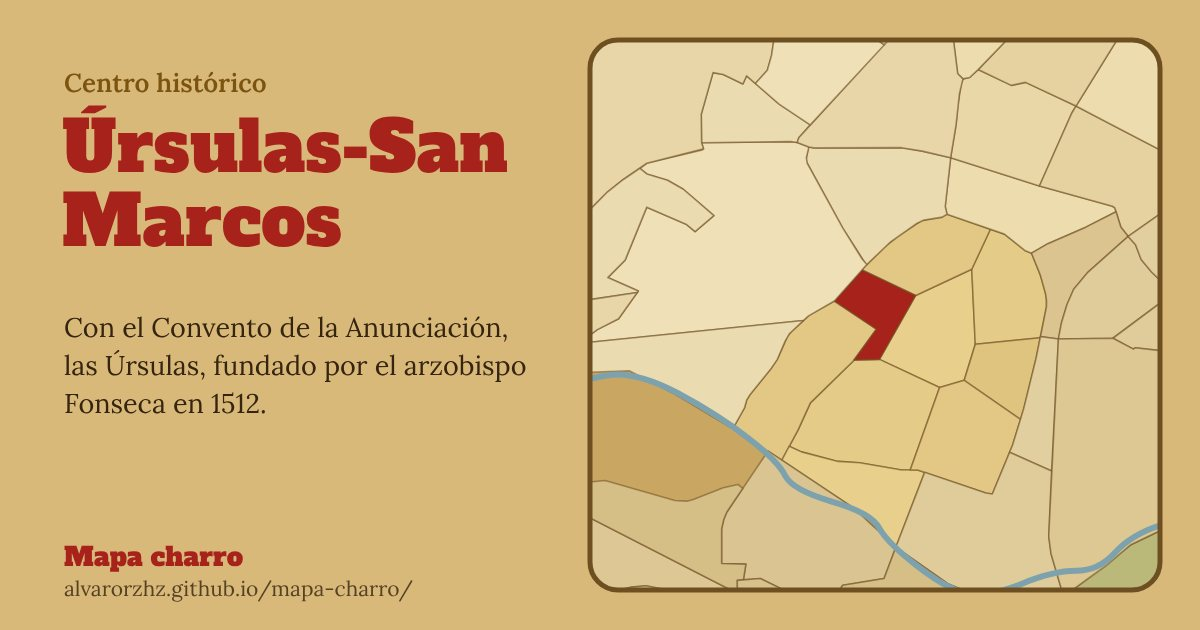
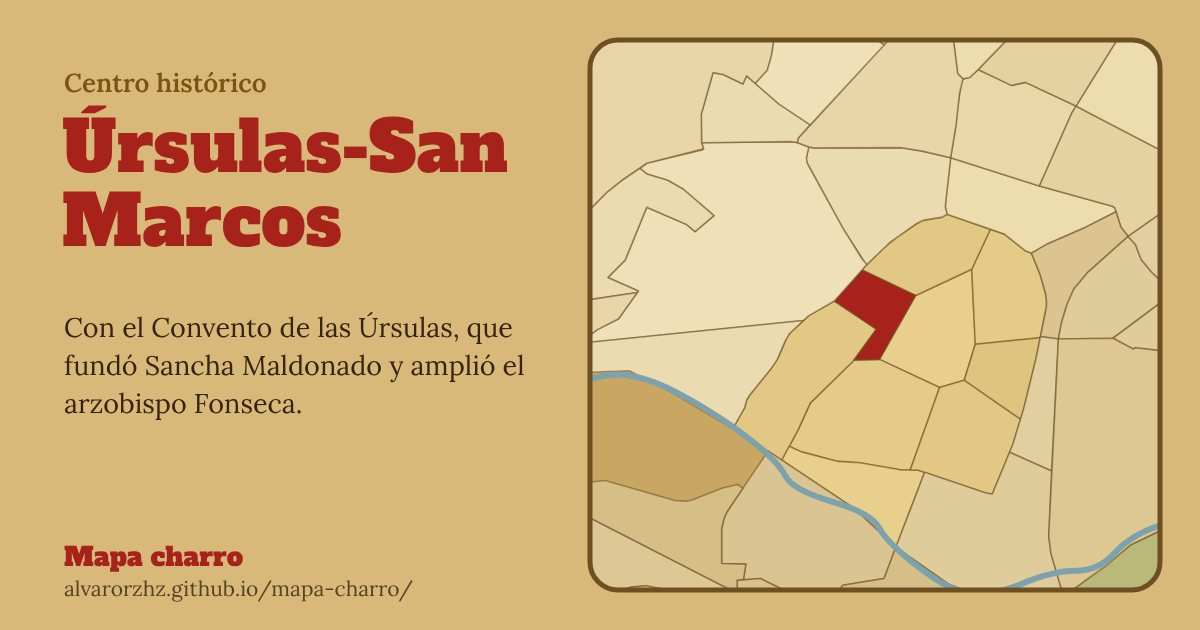
2.14.1: más curiosidades (#24)
* Más curiosidades en siete fichas y correcciones de Pelabravo y Úrsulas

Claude-Session: https://claude.ai/code/session_01GbeVkfSiqpqWJ3AUUrRvVU

* 2.14.1: más curiosidades

Claude-Session: https://claude.ai/code/session_01GbeVkfSiqpqWJ3AUUrRvVU

---------

Changed region(s): [[0.0308, 0.5127, 0.4625, 0.6635]]

diff --git a/index.html b/index.html
@@ -1,6 +1,6 @@
-<!DOCTYPE html><html lang="es"><head><meta charset="utf-8"><meta name="version" content="2.14.0"><meta name="viewport" content="width=device-width, initial-scale=1, viewport-fit=cover"><title>Mapa charro de Salamanca</title><meta name="description" content="Mapa interactivo de los barrios de Salamanca y su provincia: marca dónde has estado, descubre curiosidades, leyendas y dónde comer."><meta property="og:type" content="website"><meta property="og:site_name" content="Mapa charro"><meta property="og:locale" content="es_ES"><meta property="og:title" content="Mapa charro de Salamanca"><meta property="og:description" content="Los barrios de la capital y los pueblos de la provincia: marca dónde has estado, haz rutas y descubre curiosidades, leyendas y dónde comer."><meta property="og:url" content="https://alvarorzhz.github.io/mapa-charro/"><meta property="og:image" content="https://alvarorzhz.github.io/mapa-charro/og.png"><meta property="og:image:width" content="1200"><meta property="og:image:height" content="630"><meta property="og:image:alt" content="Mapa charro de Salamanca: la provincia con sus pueblos y, en un recuadro, el mapa de los barrios de la capital"><meta name="twitter:card" content="summary_large_image"><link rel="prefetch" href="novedades.json?v=204"><link rel="manifest" href="manifest.webmanifest"><link rel="apple-touch-icon" href="icons/icon-180.png"><link rel="icon" href="icons/icon-192.png"><meta name="theme-color" content="#a8221c"><script>try{var t=localStorage.getItem("charro-tema");if(t=="light"||t=="dark")document.documentElement.dataset.theme=t}catch(e){}</script><meta name="apple-mobile-web-app-capable" content="yes"><meta name="mobile-web-app-capable" content="yes"><meta name="apple-mobile-web-app-title" content="Mapa charro">
+<!DOCTYPE html><html lang="es"><head><meta charset="utf-8"><meta name="version" content="2.14.1"><meta name="viewport" content="width=device-width, initial-scale=1, viewport-fit=cover"><title>Mapa charro de Salamanca</title><meta name="description" content="Mapa interactivo de los barrios de Salamanca y su provincia: marca dónde has estado, descubre curiosidades, leyendas y dónde comer."><meta property="og:type" content="website"><meta property="og:site_name" content="Mapa charro"><meta property="og:locale" content="es_ES"><meta property="og:title" content="Mapa charro de Salamanca"><meta property="og:description" content="Los barrios de la capital y los pueblos de la provincia: marca dónde has estado, haz rutas y descubre curiosidades, leyendas y dónde comer."><meta property="og:url" content="https://alvarorzhz.github.io/mapa-charro/"><meta property="og:image" content="https://alvarorzhz.github.io/mapa-charro/og.png"><meta property="og:image:width" content="1200"><meta property="og:image:height" content="630"><meta property="og:image:alt" content="Mapa charro de Salamanca: la provincia con sus pueblos y, en un recuadro, el mapa de los barrios de la capital"><meta name="twitter:card" content="summary_large_image"><link rel="prefetch" href="novedades.json?v=206"><link rel="manifest" href="manifest.webmanifest"><link rel="apple-touch-icon" href="icons/icon-180.png"><link rel="icon" href="icons/icon-192.png"><meta name="theme-color" content="#a8221c"><script>try{var t=localStorage.getItem("charro-tema");if(t=="light"||t=="dark")document.documentElement.dataset.theme=t}catch(e){}</script><meta name="apple-mobile-web-app-capable" content="yes"><meta name="mobile-web-app-capable" content="yes"><meta name="apple-mobile-web-app-title" content="Mapa charro">
 <link rel="preload" href="fuentes/alfa-slab-one.woff2" as="font" type="font/woff2" crossorigin><link rel="preload" href="fuentes/lora.woff2" as="font" type="font/woff2" crossorigin>
-<link rel="stylesheet" href="css/estilos.css?v=204"></head><body>
+<link rel="stylesheet" href="css/estilos.css?v=206"></head><body>
 <main id="mn">
 <h1>Mapa charro</h1><p class="sub">50 barrios, 12 pueblos y el resto de la provincia. <span class="sub-ayuda">Busca uno o acerca el mapa; pulsa un escudo para ver la carretera.</span></p>
 <div class="ayudas"><button id="ayuda" class="ayuda-btn" title="Cómo se usa la app" aria-label="Ayuda"><span aria-hidden="true">?</span><span class="txt" aria-hidden="true">Ayuda</span></button><button id="error" class="ayuda-btn" title="Algo está mal o falta: cuéntanoslo"><span aria-hidden="true">⚠</span> Avisar<span class="largo"> de un error</span></button></div>
@@ -11,28 +11,28 @@
 
 <aside class="sh" id="sh" role="dialog" aria-labelledby="nm"><div class="asa" id="asa" role="button" tabindex="0" aria-label="Agrandar o reducir la ficha"></div><button id="x" aria-label="Cerrar">×</button><button id="volverhoy" class="volver-hoy" hidden>← ¿Qué puedo descubrir hoy?</button><small id="k"></small><h2 id="nm" tabindex="-1"></h2><p id="otros" class="otros" hidden></p><div class="sb"><nav id="idx" class="idx" aria-label="Apartados de la ficha" hidden></nav><p id="here" class="here" hidden></p><img id="ph" alt="" hidden style="width:100%;max-height:140px;object-fit:cover;border-radius:10px;margin-bottom:6px"><p id="pc" class="pcap" hidden></p><div id="nac" class="nac" hidden></div><div id="info" class="info" hidden></div><div class="nb" id="mz" hidden></div><div class="nb" id="culf" hidden></div><div id="rel" class="rel" hidden></div><section id="demo" class="demo" aria-labelledby="hd" hidden></section><h3 id="hc">Curiosidades</h3><div id="cu"></div><h3 id="hl">Leyenda</h3><div id="ri"></div><div id="pch" class="pch" hidden></div><h3 id="he">Dónde comer</h3><div id="eat"></div><div class="nb" id="nb"></div><p class="mu" id="ap"></p><p class="avisar-ficha"><button id="errf" class="enlace">¿Algo está mal o falta? Avísanos</button></p></div><div class="bt"><button data-s="v">He estado</button><button data-s="w">Quiero ir</button><button id="cmp" class="cmp" aria-label="Compartir este sitio" title="Compartir"><svg viewBox="0 0 24 24" width="22" height="22" aria-hidden="true"><path d="M12 15V3M7.5 7.5 12 3l4.5 4.5M5 11v8a2 2 0 0 0 2 2h10a2 2 0 0 0 2-2v-8" fill="none" stroke="currentColor" stroke-width="2" stroke-linecap="round" stroke-linejoin="round"/></svg></button></div></aside>
 <div id="ts" role="status" aria-live="polite"></div>
-<script src="js/util.js?v=204"></script><script src="js/medicion.js?v=204"></script>
-<script src="js/datos/zonas.js?v=204"></script>
-<script src="js/datos/monumentos.js?v=204"></script>
-<script src="js/datos/rutas-provincia.js?v=204"></script><script src="js/datos/tramos-provincia.js?v=204"></script><script src="js/datos/rutas.js?v=204"></script><script src="js/datos/tramos.js?v=204"></script>
-<script src="js/datos/habitantes.js?v=204"></script><script src="js/datos/pueblos.js?v=204"></script><script src="js/datos/cultura.js?v=204"></script><script src="js/datos/detalles.js?v=204"></script>
-<script src="js/datos/contenido.js?v=204"></script>
-<script src="js/datos/geometria.js?v=204"></script><script src="js/datos/alfoz.js?v=204"></script><script src="js/datos/tiempo.js?v=204"></script>
-<script src="js/datos/carreteras.js?v=204"></script>
-<script src="js/datos/parques.js?v=204"></script><script src="js/datos/carreteras-provincia.js?v=204"></script><script src="js/datos/provincia.js?v=204"></script><script src="js/datos/firebase.js?v=204"></script><script src="js/datos/palabras.js?v=204"></script>
-<script src="js/estado.js?v=204"></script>
-<script src="js/guardado.js?v=204"></script>
-<script src="js/mapa.js?v=204"></script><script src="js/mapa-fondo.js?v=204"></script><script src="js/mapa-vias.js?v=204"></script><script src="js/mapa-vista.js?v=204"></script>
-<script src="js/ficha.js?v=204"></script>
-<script src="js/monumentos.js?v=204"></script>
-<script src="js/ruta.js?v=204"></script>
-<script src="js/ruta-provincia.js?v=204"></script>
-<script src="js/logros.js?v=204"></script>
-<script src="js/palabras.js?v=204"></script>
-<script src="js/vistas.js?v=204"></script>
-<script src="js/ubicacion.js?v=204"></script><script src="js/mapa-real.js?v=204"></script>
-<script src="js/provincia.js?v=204"></script>
-<script src="js/pueblos.js?v=204"></script>
-<script src="js/perfil.js?v=204"></script><script src="js/imagen.js?v=204"></script><script src="js/explorar.js?v=204"></script><script src="js/cultura.js?v=204"></script><script src="js/agenda.js?v=204"></script><script src="js/detalles.js?v=204"></script><script src="js/copia.js?v=204"></script><script src="js/hoy.js?v=204"></script><script src="js/mi-salamanca-calculos.js?v=204"></script><script src="js/mi-salamanca-piezas.js?v=204"></script><script src="js/mi-salamanca.js?v=204"></script><script src="js/juego.js?v=204"></script><script src="js/mapa-teclado.js?v=204"></script><script src="js/escritorio.js?v=204"></script><script src="js/bienvenida.js?v=204"></script><script src="js/paseo.js?v=204"></script><script src="js/tiempo.js?v=204"></script><script src="js/buscador.js?v=204"></script><script src="js/enlaces.js?v=204"></script><script src="js/cuenta.js?v=204"></script>
-<script src="js/inicio.js?v=204"></script>
-<script src="js/avisar.js?v=204"></script></body></html>
+<script src="js/util.js?v=206"></script><script src="js/medicion.js?v=206"></script>
+<script src="js/datos/zonas.js?v=206"></script>
+<script src="js/datos/monumentos.js?v=206"></script>
+<script src="js/datos/rutas-provincia.js?v=206"></script><script src="js/datos/tramos-provincia.js?v=206"></script><script src="js/datos/rutas.js?v=206"></script><script src="js/datos/tramos.js?v=206"></script>
+<script src="js/datos/habitantes.js?v=206"></script><script src="js/datos/pueblos.js?v=206"></script><script src="js/datos/cultura.js?v=206"></script><script src="js/datos/detalles.js?v=206"></script>
+<script src="js/datos/contenido.js?v=206"></script>
+<script src="js/datos/geometria.js?v=206"></script><script src="js/datos/alfoz.js?v=206"></script><script src="js/datos/tiempo.js?v=206"></script>
+<script src="js/datos/carreteras.js?v=206"></script>
+<script src="js/datos/parques.js?v=206"></script><script src="js/datos/carreteras-provincia.js?v=206"></script><script src="js/datos/provincia.js?v=206"></script><script src="js/datos/firebase.js?v=206"></script><script src="js/datos/palabras.js?v=206"></script>
+<script src="js/estado.js?v=206"></script>
+<script src="js/guardado.js?v=206"></script>
+<script src="js/mapa.js?v=206"></script><script src="js/mapa-fondo.js?v=206"></script><script src="js/mapa-vias.js?v=206"></script><script src="js/mapa-vista.js?v=206"></script>
+<script src="js/ficha.js?v=206"></script>
+<script src="js/monumentos.js?v=206"></script>
+<script src="js/ruta.js?v=206"></script>
+<script src="js/ruta-provincia.js?v=206"></script>
+<script src="js/logros.js?v=206"></script>
+<script src="js/palabras.js?v=206"></script>
+<script src="js/vistas.js?v=206"></script>
+<script src="js/ubicacion.js?v=206"></script><script src="js/mapa-real.js?v=206"></script>
+<script src="js/provincia.js?v=206"></script>
+<script src="js/pueblos.js?v=206"></script>
+<script src="js/perfil.js?v=206"></script><script src="js/imagen.js?v=206"></script><script src="js/explorar.js?v=206"></script><script src="js/cultura.js?v=206"></script><script src="js/agenda.js?v=206"></script><script src="js/detalles.js?v=206"></script><script src="js/copia.js?v=206"></script><script src="js/hoy.js?v=206"></script><script src="js/mi-salamanca-calculos.js?v=206"></script><script src="js/mi-salamanca-piezas.js?v=206"></script><script src="js/mi-salamanca.js?v=206"></script><script src="js/juego.js?v=206"></script><script src="js/mapa-teclado.js?v=206"></script><script src="js/escritorio.js?v=206"></script><script src="js/bienvenida.js?v=206"></script><script src="js/paseo.js?v=206"></script><script src="js/tiempo.js?v=206"></script><script src="js/buscador.js?v=206"></script><script src="js/enlaces.js?v=206"></script><script src="js/cuenta.js?v=206"></script>
+<script src="js/inicio.js?v=206"></script>
+<script src="js/avisar.js?v=206"></script></body></html>

diff --git a/js/datos/contenido.js b/js/datos/contenido.js
@@ -34,7 +34,12 @@ const CURIOSIDADES = {
     'El 26 de enero de 1626 la riada de San Policarpo arrasó la ribera: murieron 142 personas, más de 1.500 viviendas sufrieron daños y se hundieron cuatro arcos del Puente Romano.'
   ],
   ursulas: [
-    'Con el Convento de la Anunciación, las Úrsulas, fundado por el arzobispo Fonseca en 1512. Enfrente, en la calle Bordadores, está la Casa de las Muertes.'
+    // Fuentes: https://es.wikipedia.org/wiki/Convento_de_las_%C3%9Arsulas_(Salamanca) y https://www.spain.info/es/lugares-interes/convento-las-ursulas/
+    'El Convento de la Anunciación, las Úrsulas, lo fundó Sancha Maldonado en el siglo XV y lo amplió su sobrino, el arzobispo Alonso de Fonseca, para enterrarse en él. Enfrente, en la calle Bordadores, está la Casa de las Muertes.',
+    // Fuente: https://es.wikipedia.org/wiki/Convento_de_las_%C3%9Arsulas_(Salamanca)
+    'El sepulcro del arzobispo lo talló Diego de Siloé en 1529, en Granada, con mármol de la sierra de los Filabres.',
+    // Fuente: https://es.wikipedia.org/wiki/Convento_de_las_%C3%9Arsulas_(Salamanca)
+    'Las monjas se fueron en abril de 2018 y desde entonces cuida el edificio la Fundación Las Edades del Hombre. Su museo, abierto en 1968 en el coro bajo, se renovó en 2019.'
   ],
   sancristobal: [
     'La iglesia de San Cristóbal es de 1128 y desde 1145 fue de la Orden de San Juan de Jerusalén. En 1919 se convirtió en colegio, cerró en 1960 y se restauró a partir de 1991.',
@@ -82,7 +87,15 @@ const CURIOSIDADES = {
     'A finales de los setenta aquí se ponían las ferias, antes de mudarse a La Aldehuela. Hoy tiene el parque Würzburg, la biblioteca Torrente Ballester y el Conservatorio Superior de Música.'
   ],
   glorieta: [
-    'La plaza de toros de La Glorieta la impulsaron los comerciantes a finales del siglo XIX, y a su lado estuvo, a comienzos del XX, el primer campo de fútbol de la ciudad.'
+    'La plaza de toros de La Glorieta la impulsaron los comerciantes a finales del siglo XIX, y a su lado estuvo, a comienzos del XX, el primer campo de fútbol de la ciudad.',
+    // Fuente: https://es.wikipedia.org/wiki/Plaza_de_toros_de_Salamanca
+    'La pagaron 213 familias salmantinas, y por eso se la llamó «la plaza de las 200 familias». Su ruedo mide 54 metros de diámetro.',
+    // Fuente: https://www.salamancaenelayer.com/2016/11/la-plaza-de-toros-de-la-glorieta.html
+    'Se inauguró el 11 de septiembre de 1893 sin una de sus figuras: cuatro días antes llegó de Murcia un telegrama de Mazzantini, «Guerrita cogido, cornada cuello». El primer toro de su historia, Ranchero, lo mató Mazzantini de una estocada.',
+    // Fuente: https://www.lagacetadesalamanca.es/salamanca/las-tres-plazas-de-toros-que-ha-tenido-salamanca-FK10298836
+    'Es la tercera plaza de toros fija de la ciudad, después de la del Campo de San Francisco (1840-1863) y la de los Mínimos (1864-1892). Desde que abrió solo se ha quedado sin toros dos veces: en 1936, por la Guerra Civil, y en septiembre de 2020, por la pandemia.',
+    // Fuente: https://es.wikipedia.org/wiki/Plaza_de_toros_de_Salamanca
+    'Su ruedo ha visto de todo: en 1960, un rodeo benéfico de militares estadounidenses de la base de Morón, y la llegada de una contrarreloj de la Vuelta a España.'
   ],
   alamedilla: [
     'Fue el primer parque moderno de Salamanca: el terreno se compró en 1879 y se inauguró en 1884.',
@@ -269,11 +282,20 @@ const CURIOSIDADES = {
   ],
   aldeatejada: [
     'Aparece como «Aldea Teiada» en 1186. Del 10 al 13 de noviembre de 1543, Felipe II y María Manuela de Portugal se alojaron aquí antes de su boda en Salamanca.',
-    'Por su término pasa la Cañada Real de la Vizana.'
+    'Por su término pasa la Cañada Real de la Vizana.',
+    // Fuente: https://es.wikipedia.org/wiki/Aldeatejada
+    'Su nombre fue cambiando en los papeles: «Aldea Teiada» en 1186, «Aldea Tellada» en 1210 y «Aldeatellada» en el siglo XIII, antes de quedarse en Aldeatejada.',
+    // Fuente: https://es.wikipedia.org/wiki/Aldeatejada
+    'La riada de San Policarpo de 1626, la que hundió arcos del Puente Romano, también llegó aquí: dañó la iglesia y se llevó tres casas.',
+    // Fuente: https://www.lagacetadesalamanca.es/provincia/aldeatejada-cierra-fiestas-santa-barbara-bailes-paleos-20241201155654-ga.html
+    'Su patrona es Santa Bárbara: a primeros de diciembre la sacan en procesión y los jóvenes bailan paleos al son de la gaita y el tamboril; después hay caldo para todos en la sede de la asociación Santa Bárbara.'
   ],
   doninos: [
     'A comienzos del siglo XVII tenía menos de seis vecinos; en 1842, 140. Hoy supera los 2.200 (2.273 en el padrón de 2025).',
-    'Tiene el museo del escultor Ángel Mateos, que trabajó con hormigón.'
+    // Fuente: https://es.wikipedia.org/wiki/Do%C3%B1inos_de_Salamanca
+    'En la Edad Media era parte del cuarto de Baños, en la tierra de Salamanca. Hasta el siglo XVII dependía de Carrascal de Barregas para la iglesia; al crecer se hizo municipio y se quedó con Santibáñez del Río y El Pegollo.',
+    // Fuentes: https://www.turismocastillayleon.com/es/patrimonio-cultura/museo-angel-mateos y https://www.terranostrum.es/turismo/salamanca/el-campo-charro/doninos-de-salamanca/museo-angel-mateos-escultura-hormigon
+    'El Museo Ángel Mateos guarda más de 170 obras en hormigón que el escultor hizo entre los años setenta y los noventa. El propio edificio es una «escultura habitable»: él decía que era una escultura que contiene muchas esculturas.'
   ],
   carrascal: [
     'Su término, de casi 77 km², es de los más grandes de la provincia, y la mayoría de sus vecinos vive en la urbanización Peñasolana, junto a Los Montalvos.',
@@ -291,7 +313,10 @@ const CURIOSIDADES = {
   ],
   pelabravo: [
     'Según la tradición lo fundó Pelay o Pelayo Bravo, por orden de los reyes de León.',
-    'En Naharros del Río se conservan los restos del castillo de la Torre Mocha, de los siglos XII y XIII. La mayoría de sus vecinos vive en Nuevo Naharros.'
+    // Fuentes: https://es.wikipedia.org/wiki/Pelabravo y https://www.lagacetadesalamanca.es/provincia/junta-abre-expediente-infraccion-vecino-derribo-ruinas-20251105134123-nt.html
+    'En Naharros del Río estaban las ruinas del castillo de la Torre Mocha, de los siglos XII y XIII y Bien de Interés Cultural. En octubre de 2025 el dueño de la finca las derribó y tiró las piedras a una laguna; la Junta abrió un expediente y llevó el caso a la Fiscalía.',
+    // Fuente: https://es.wikipedia.org/wiki/Pelabravo
+    'La mayoría de sus vecinos vive en Nuevo Naharros. La iglesia de San Juan Bautista se rehízo a finales del siglo XVIII y su espadaña quedó suelta, apartada del templo, porque la obra nunca se terminó.'
   ],
   castmoriscos: [
     'En el siglo XIII ya se llamaba «Castellanos de Morisco», porque lo repoblaron colonos de Castilla. Su iglesia de San Esteban es Bien de Interés Cultural desde 1999.',
@@ -299,7 +324,11 @@ const CURIOSIDADES = {
   ],
   castvilliquera: [
     'Lo repoblaron hacia el año 975 castellanos del ejército de Ramiro II. «Villiquera» podría venir del latín villicus, el administrador de una finca romana.',
-    'A sus vecinos los llaman «cucos», por los dos cucos de su escudo.'
+    'A sus vecinos los llaman «cucos», por los dos cucos de su escudo.',
+    // Fuente: https://es.wikipedia.org/wiki/Castellanos_de_Villiquera
+    'Los repobladores eligieron un alto para librarse de las crecidas del arroyo de la Encina. El pueblo de Villiquera, más antiguo, estaba uno o dos kilómetros al sur.',
+    // Fuente: https://es.wikipedia.org/wiki/Castellanos_de_Villiquera
+    'Su escudo es de 2014 y lleva alrededor catorce espigas de oro. En 2017 su pedanía de Mozodiel de Sanchiñigo pasó a Villamayor.'
   ],
   fontana: [
     'Del monasterio de Santa María de la Vega, de hacia 1150 y después de los canónigos de San Agustín, quedan cinco arcos con 16 capiteles de escenas de caza, bailes y animales.',
@@ -387,7 +416,13 @@ const CURIOSIDADES = {
     // Fuente: https://salamancartvaldia.es/noticia/2025-01-27-ciudad-jardin-el-barrio-que-surgio-de-una-utopia-fotos-362169
     'Sus vecinos lo llaman el barrio «de las dos mentiras»: ni ciudad ni jardín.',
     // Fuente: https://www.salamancahoy.es/salamanca/ciudad/ciudad-jardin-barrio-lleva-anos-sonando-calles-20230501135134-nt.html
-    'En 1973 una inmobiliaria madrileña compró el barrio por nueve millones de pesetas; en 1980 cada piso se vendía por un millón.'
+    'En 1973 una inmobiliaria madrileña compró el barrio por nueve millones de pesetas; en 1980 cada piso se vendía por un millón.',
+    // Fuente: https://salamancartvaldia.es/noticia/2025-01-27-ciudad-jardin-el-barrio-que-surgio-de-una-utopia-fotos-362169
+    'Las casas iban a ir forradas de piedra de Villamayor, pero se quedaron en unas líneas pintadas en la pared que la imitaban. En algunos bloques todavía se ven.',
+    // Fuente: https://salamancartvaldia.es/noticia/2025-01-27-ciudad-jardin-el-barrio-que-surgio-de-una-utopia-fotos-362169
+    'En los primeros años casi no había luz en la calle, el agua se cogía cada dos días del depósito de detrás del bloque 1 o de la fuente del Cántaro, y el único autobús, el de Villares, pasaba dos veces al día.',
+    // Fuente: https://salamancartvaldia.es/noticia/2025-01-27-ciudad-jardin-el-barrio-que-surgio-de-una-utopia-fotos-362169
+    'Su parroquia es «una casa hecha capilla». En una Misa del Gallo volvió a sonar un armonio que llevaba unos 50 años mudo: se lo había regalado a los vecinos don Luis, un pastor protestante que vivía en el barrio.'
   ],
   huertaotea: [
     // Fuente: https://www.elespanol.com/castilla-y-leon/region/20180701/huerta-otea-mirador-botanico-rio-tormes/319218877_0.html
@@ -514,7 +549,7 @@ const FOTOS = {
   ],
   pelabravo: [
     'img/pelabravo.jpg',
-    'Castillo de la Torre Mocha, en Naharros del Río. Foto: Ramajero · CC BY-SA 4.0 · Wikimedia Commons'
+    'Ruinas del castillo de la Torre Mocha, en Naharros del Río, antes de su derribo en 2025. Foto: Ramajero · CC BY-SA 4.0 · Wikimedia Commons'
   ],
   aldeatejada: [
     'img/aldeatejada.jpg',
@@ -873,6 +908,15 @@ const DONDE_COMER = {
       a: 'Calle Constitución 17',
       p: 'Muy valorado por su menú degustación: 4,6 sobre 5 en Google con unas 890 opiniones.',
       s: 'Gastroranking, oct. 2026'
+    }
+  ],
+  aldeatejada: [
+    {
+      n: 'Bar Mati',
+      t: 'Bar de tapas',
+      a: 'Avenida de la Peña de Francia, 53',
+      p: 'Más de 50 años en el pueblo: callos, morro, oreja, chanfaina y paellas, con terraza en verano.',
+      s: 'Salamanca en Bandeja, oct. 2026'
     }
   ],
   sancristobal: [

diff --git a/sw.js b/sw.js
@@ -1,79 +1,79 @@
 // Service worker: deja la app guardada en el móvil para que funcione sin conexión.
 // No edites VERSION ni ARCHIVOS a mano: los actualiza `node herramientas/version.js`.
-const VERSION = 204;
+const VERSION = 206;
 const CACHE = 'mapa-charro-v' + VERSION;
 // <archivos>
 const ARCHIVOS = [
   './',
   'index.html',
   'manifest.webmanifest',
-  'novedades.json?v=204',
+  'novedades.json?v=206',
   'icons/icon-180.png',
   'icons/icon-192.png',
   'fuentes/alfa-slab-one.woff2',
   'fuentes/lora.woff2',
-  'css/estilos.css?v=204',
-  'js/util.js?v=204',
-  'js/medicion.js?v=204',
-  'js/datos/zonas.js?v=204',
-  'js/datos/monumentos.js?v=204',
-  'js/datos/rutas-provincia.js?v=204',
-  'js/datos/tramos-provincia.js?v=204',
-  'js/datos/rutas.js?v=204',
-  'js/datos/tramos.js?v=204',
-  'js/datos/habitantes.js?v=204',
-  'js/datos/pueblos.js?v=204',
-  'js/datos/cultura.js?v=204',
-  'js/datos/detalles.js?v=204',
-  'js/datos/contenido.js?v=204',
-  'js/datos/geometria.js?v=204',
-  'js/datos/alfoz.js?v=204',
-  'js/datos/tiempo.js?v=204',
-  'js/datos/carreteras.js?v=204',
-  'js/datos/parques.js?v=204',
-  'js/datos/carreteras-provincia.js?v=204',
-  'js/datos/provincia.js?v=204',
-  'js/datos/firebase.js?v=204',
-  'js/datos/palabras.js?v=204',
-  'js/estado.js?v=204',
-  'js/guardado.js?v=204',
-  'js/mapa.js?v=204',
-  'js/mapa-fondo.js?v=204',
-  'js/mapa-vias.js?v=204',
-  'js/mapa-vista.js?v=204',
-  'js/ficha.js?v=204',
-  'js/monumentos.js?v=204',
-  'js/ruta.js?v=204',
-  'js/ruta-provincia.js?v=204',
-  'js/logros.js?v=204',
-  'js/palabras.js?v=204',
-  'js/vistas.js?v=204',
-  'js/ubicacion.js?v=204',
-  'js/mapa-real.js?v=204',
-  'js/provincia.js?v=204',
-  'js/pueblos.js?v=204',
-  'js/perfil.js?v=204',
-  'js/imagen.js?v=204',
-  'js/explorar.js?v=204',
-  'js/cultura.js?v=204',
-  'js/agenda.js?v=204',
-  'js/detalles.js?v=204',
-  'js/copia.js?v=204',
-  'js/hoy.js?v=204',
-  'js/mi-salamanca-calculos.js?v=204',
-  'js/mi-salamanca-piezas.js?v=204',
-  'js/mi-salamanca.js?v=204',
-  'js/juego.js?v=204',
-  'js/mapa-teclado.js?v=204',
-  'js/escritorio.js?v=204',
-  'js/bienvenida.js?v=204',
-  'js/paseo.js?v=204',
-  'js/tiempo.js?v=204',
-  'js/buscador.js?v=204',
-  'js/enlaces.js?v=204',
-  'js/cuenta.js?v=204',
-  'js/inicio.js?v=204',
-  'js/avisar.js?v=204',
+  'css/estilos.css?v=206',
+  'js/util.js?v=206',
+  'js/medicion.js?v=206',
+  'js/datos/zonas.js?v=206',
+  'js/datos/monumentos.js?v=206',
+  'js/datos/rutas-provincia.js?v=206',
+  'js/datos/tramos-provincia.js?v=206',
+  'js/datos/rutas.js?v=206',
+  'js/datos/tramos.js?v=206',
+  'js/datos/habitantes.js?v=206',
+  'js/datos/pueblos.js?v=206',
+  'js/datos/cultura.js?v=206',
+  'js/datos/detalles.js?v=206',
+  'js/datos/contenido.js?v=206',
+  'js/datos/geometria.js?v=206',
+  'js/datos/alfoz.js?v=206',
+  'js/datos/tiempo.js?v=206',
+  'js/datos/carreteras.js?v=206',
+  'js/datos/parques.js?v=206',
+  'js/datos/carreteras-provincia.js?v=206',
+  'js/datos/provincia.js?v=206',
+  'js/datos/firebase.js?v=206',
+  'js/datos/palabras.js?v=206',
+  'js/estado.js?v=206',
+  'js/guardado.js?v=206',
+  'js/mapa.js?v=206',
+  'js/mapa-fondo.js?v=206',
+  'js/mapa-vias.js?v=206',
+  'js/mapa-vista.js?v=206',
+  'js/ficha.js?v=206',
+  'js/monumentos.js?v=206',
+  'js/ruta.js?v=206',
+  'js/ruta-provincia.js?v=206',
+  'js/logros.js?v=206',
+  'js/palabras.js?v=206',
+  'js/vistas.js?v=206',
+  'js/ubicacion.js?v=206',
+  'js/mapa-real.js?v=206',
+  'js/provincia.js?v=206',
+  'js/pueblos.js?v=206',
+  'js/perfil.js?v=206',
+  'js/imagen.js?v=206',
+  'js/explorar.js?v=206',
+  'js/cultura.js?v=206',
+  'js/agenda.js?v=206',
+  'js/detalles.js?v=206',
+  'js/copia.js?v=206',
+  'js/hoy.js?v=206',
+  'js/mi-salamanca-calculos.js?v=206',
+  'js/mi-salamanca-piezas.js?v=206',
+  'js/mi-salamanca.js?v=206',
+  'js/juego.js?v=206',
+  'js/mapa-teclado.js?v=206',
+  'js/escritorio.js?v=206',
+  'js/bienvenida.js?v=206',
+  'js/paseo.js?v=206',
+  'js/tiempo.js?v=206',
+  'js/buscador.js?v=206',
+  'js/enlaces.js?v=206',
+  'js/cuenta.js?v=206',
+  'js/inicio.js?v=206',
+  'js/avisar.js?v=206',
   'icons/icon-512.png',
   'icons/icono.svg',
   'img/alambres.jpg',

diff --git a/js/datos/zonas.js b/js/datos/zonas.js
@@ -43,7 +43,7 @@ const ZONAS = [
   ['sancti', 'Sancti-Spíritus', 'Sancti-Spíritus', 0, 40.96539, -5.65922, 'Toma el nombre de la iglesia de Sancti-Spíritus, en el lado este del casco histórico.'],
   ['sanjuan', 'San Juan', 'San|Juan', 0, 40.96783, -5.66614, 'Su nombre viene de la iglesia de San Juan de Barbalos, en el norte del casco.'],
   ['tenerias', 'Tenerías', 'Tenerías', 0, 40.95824, -5.66812, 'Creció al sur de las murallas, junto al Tormes; el nombre recuerda a las antiguas curtidurías.'],
-  ['ursulas', 'Úrsulas-San Marcos', 'Úrsulas', 0, 40.96631, -5.6671, 'Con el Convento de la Anunciación, las Úrsulas, fundado por el arzobispo Fonseca en 1512.'],
+  ['ursulas', 'Úrsulas-San Marcos', 'Úrsulas', 0, 40.96631, -5.6671, 'Con el Convento de las Úrsulas, que fundó Sancha Maldonado y amplió el arzobispo Fonseca.'],
   ['sancristobal', 'San Cristóbal', 'San|Cristóbal', 0, 40.96394, -5.65903, 'Barrio del este del casco, con la iglesia de San Cristóbal y su torre románica.'],
   ['sanesteban', 'San Esteban', 'San|Esteban', 0, 40.96014, -5.66252, 'Aquí está el Convento de San Esteban, dominico, con su fachada plateresca del siglo XVI.'],
   ['labradores', 'Labradores', 'Labradores', 1, 40.97039, -5.6594, 'Uno de los primeros ensanches del casco histórico; hoy, zona de bares y restaurantes.'],

diff --git a/z/ursulas.html b/z/ursulas.html
@@ -4,12 +4,12 @@
 <meta charset="utf-8">
 <meta name="viewport" content="width=device-width, initial-scale=1">
 <title>Úrsulas-San Marcos · Mapa charro de Salamanca</title>
-<meta name="description" content="Con el Convento de la Anunciación, las Úrsulas, fundado por el arzobispo Fonseca en 1512.">
+<meta name="description" content="Con el Convento de las Úrsulas, que fundó Sancha Maldonado y amplió el arzobispo Fonseca.">
 <meta property="og:type" content="website">
 <meta property="og:site_name" content="Mapa charro">
 <meta property="og:locale" content="es_ES">
 <meta property="og:title" content="Úrsulas-San Marcos · Mapa charro de Salamanca">
-<meta property="og:description" content="Con el Convento de la Anunciación, las Úrsulas, fundado por el arzobispo Fonseca en 1512.">
+<meta property="og:description" content="Con el Convento de las Úrsulas, que fundó Sancha Maldonado y amplió el arzobispo Fonseca.">
 <meta property="og:url" content="https://alvarorzhz.github.io/mapa-charro/z/ursulas.html">
 <meta property="og:image" content="https://alvarorzhz.github.io/mapa-charro/z/ursulas.jpg">
 <meta property="og:image:width" content="1200">

diff --git a/js/datos/tiempo.js b/js/datos/tiempo.js
@@ -172,7 +172,7 @@ const EPOCA_ZONA = {
   carbajosa: [2, 'Aparece por escrito en 1248'],
   cabrerizos: [2, 'En el siglo XIII se llamaba «Cabrarizos»'],
   castmoriscos: [2, 'Ya citado en el siglo XIII'],
-  pelabravo: [2, 'Castillo de la Torre Mocha, de los siglos XII y XIII'],
+  pelabravo: [2, 'Castillo de la Torre Mocha, de los siglos XII y XIII (derribado en 2025)'],
   moriscos: [3, 'Su origen se remonta al siglo XIV'],
   villares: [3, 'Iglesia de San Silvestre, empezada en 1619'],
   doninos: [3, 'A comienzos del siglo XVII tenía menos de seis vecinos'],
